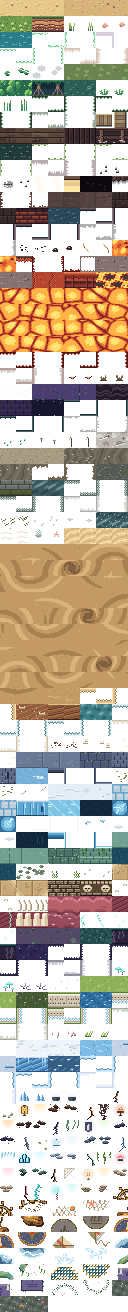
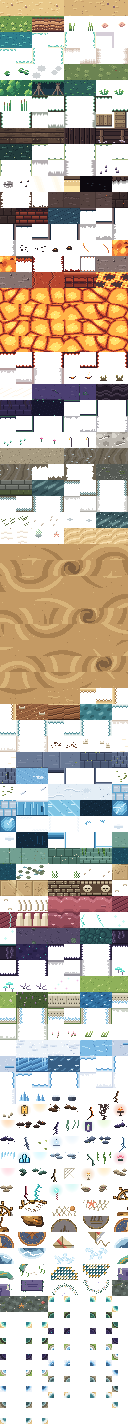
Rounded shores: a pool's corners curve into the ground instead of squaring off
Where a pool's corner juts into open ground (ground on both sides and the
diagonal), the overworld draws a corner cap over the water: ground outside
a quarter circle, the region's own bank colours along the arc. The caps are
built from each region's floor and bank tiles, read from Room.BIOMES so the
two can't drift apart, for the seven overworld regions with water (not
Cinderreach's lava). Corners against walls, drops, boardwalks or the screen
edge stay square. SHOTS_ONLY=shores takes the before/after shots.

Claude-Session: https://claude.ai/code/session_01UYEn5XZXkHTUvmfLbrhNvJ

diff --git a/tools/build_art.py b/tools/build_art.py
@@ -21,6 +21,7 @@ Only the Python standard library is needed. Output goes to assets/.
 import math
 import os
 import random
+import re
 import struct
 import sys
 import zlib
@@ -1084,6 +1085,73 @@ assert not {n for n, _ in TILE_LAYOUT} & {n for n, _ in dungeon_setpiece_art.TIL
 TILE_LAYOUT += dungeon_setpiece_art.TILES
 assert not {n for n, _ in TILE_LAYOUT} & {n for n, _ in verge_art.EBB_TILES}, "verge_art.EBB_TILES reuses tile names"
 TILE_LAYOUT += verge_art.EBB_TILES
+
+
+# Rounded shores: where a pool's corner juts into open ground (land on two
+# sides), the overworld draws a corner cap over the water so the bank turns
+# a curve instead of a square. Built from each region's own floor and bank
+# tiles (read from Room.BIOMES, so the two can't drift apart): ground
+# outside a quarter circle, the bank's band of colours along the arc.
+SHORE_RADIUS = 6
+SHORE_BIOMES = ["saltmarrow", "brinewood", "gloamfen", "windmere", "frostspine", "sunken_verge", "ossuary"]
+
+
+def _biome_tiles():
+    text = open(os.path.join(ROOT, "scripts", "world", "room.gd")).read()
+    out = {}
+    for name in SHORE_BIOMES:
+        block = re.search(r'^\t"%s": \{(.*?)^\t\}' % name, text, re.M | re.S).group(1)
+        floor = re.search(r'"floor": "([^"]+)"', block).group(1)
+        edge = re.search(r'"water_edge": "([^"]+)"', block).group(1)
+        water = re.search(r'"water": "([^"]+)"', block).group(1)
+        out[name] = (floor, edge, water)
+    return out
+
+
+def shore_cap(biome, corner, frame):
+    builders = dict(TILE_LAYOUT)
+    floor_name, edge_name, water_name = _biome_tiles()[biome]
+    ground = builders[floor_name % 0]()
+    water = builders[water_name % frame]()
+    r = SHORE_RADIUS
+    side = "left" if corner[1] == "l" else "right"
+    band_tile = builders[edge_name % (side, frame)]()
+    # The bank's colours from the shore inward, read across the middle of
+    # its straight side tile (no deeper than the curve, so the arc always
+    # shows the bank's line).
+    band = []
+    cols = range(T) if side == "left" else range(T - 1, -1, -1)
+    for x in cols:
+        c = band_tile[T // 2][x]
+        if c[3] == 0:
+            break
+        band.append(c)
+    band = band[-(r - 1):]
+    cx = r if corner[1] == "l" else T - r
+    cy = r if corner[0] == "t" else T - r
+    px = blank()
+    for y in range(T):
+        for x in range(T):
+            inx = x < cx if corner[1] == "l" else x >= cx
+            iny = y < cy if corner[0] == "t" else y >= cy
+            if not (inx and iny):
+                continue
+            d = r - math.hypot(x + 0.5 - cx, y + 0.5 - cy)
+            if d < 0:
+                px[y][x] = ground[y][x]
+            elif d < len(band):
+                px[y][x] = band[int(d)]
+            else:
+                # Open water, over the square ends of the straight banks.
+                px[y][x] = water[y][x]
+    return px
+
+
+SHORE_TILES = [
+    ("shore_%s_%s_%d" % (biome, corner, frame), (lambda b=biome, c=corner, f=frame: shore_cap(b, c, f)))
+    for biome in SHORE_BIOMES for corner in ("tl", "tr", "bl", "br") for frame in range(2)
+]
+TILE_LAYOUT += SHORE_TILES
 
 
 def build_tiles():
